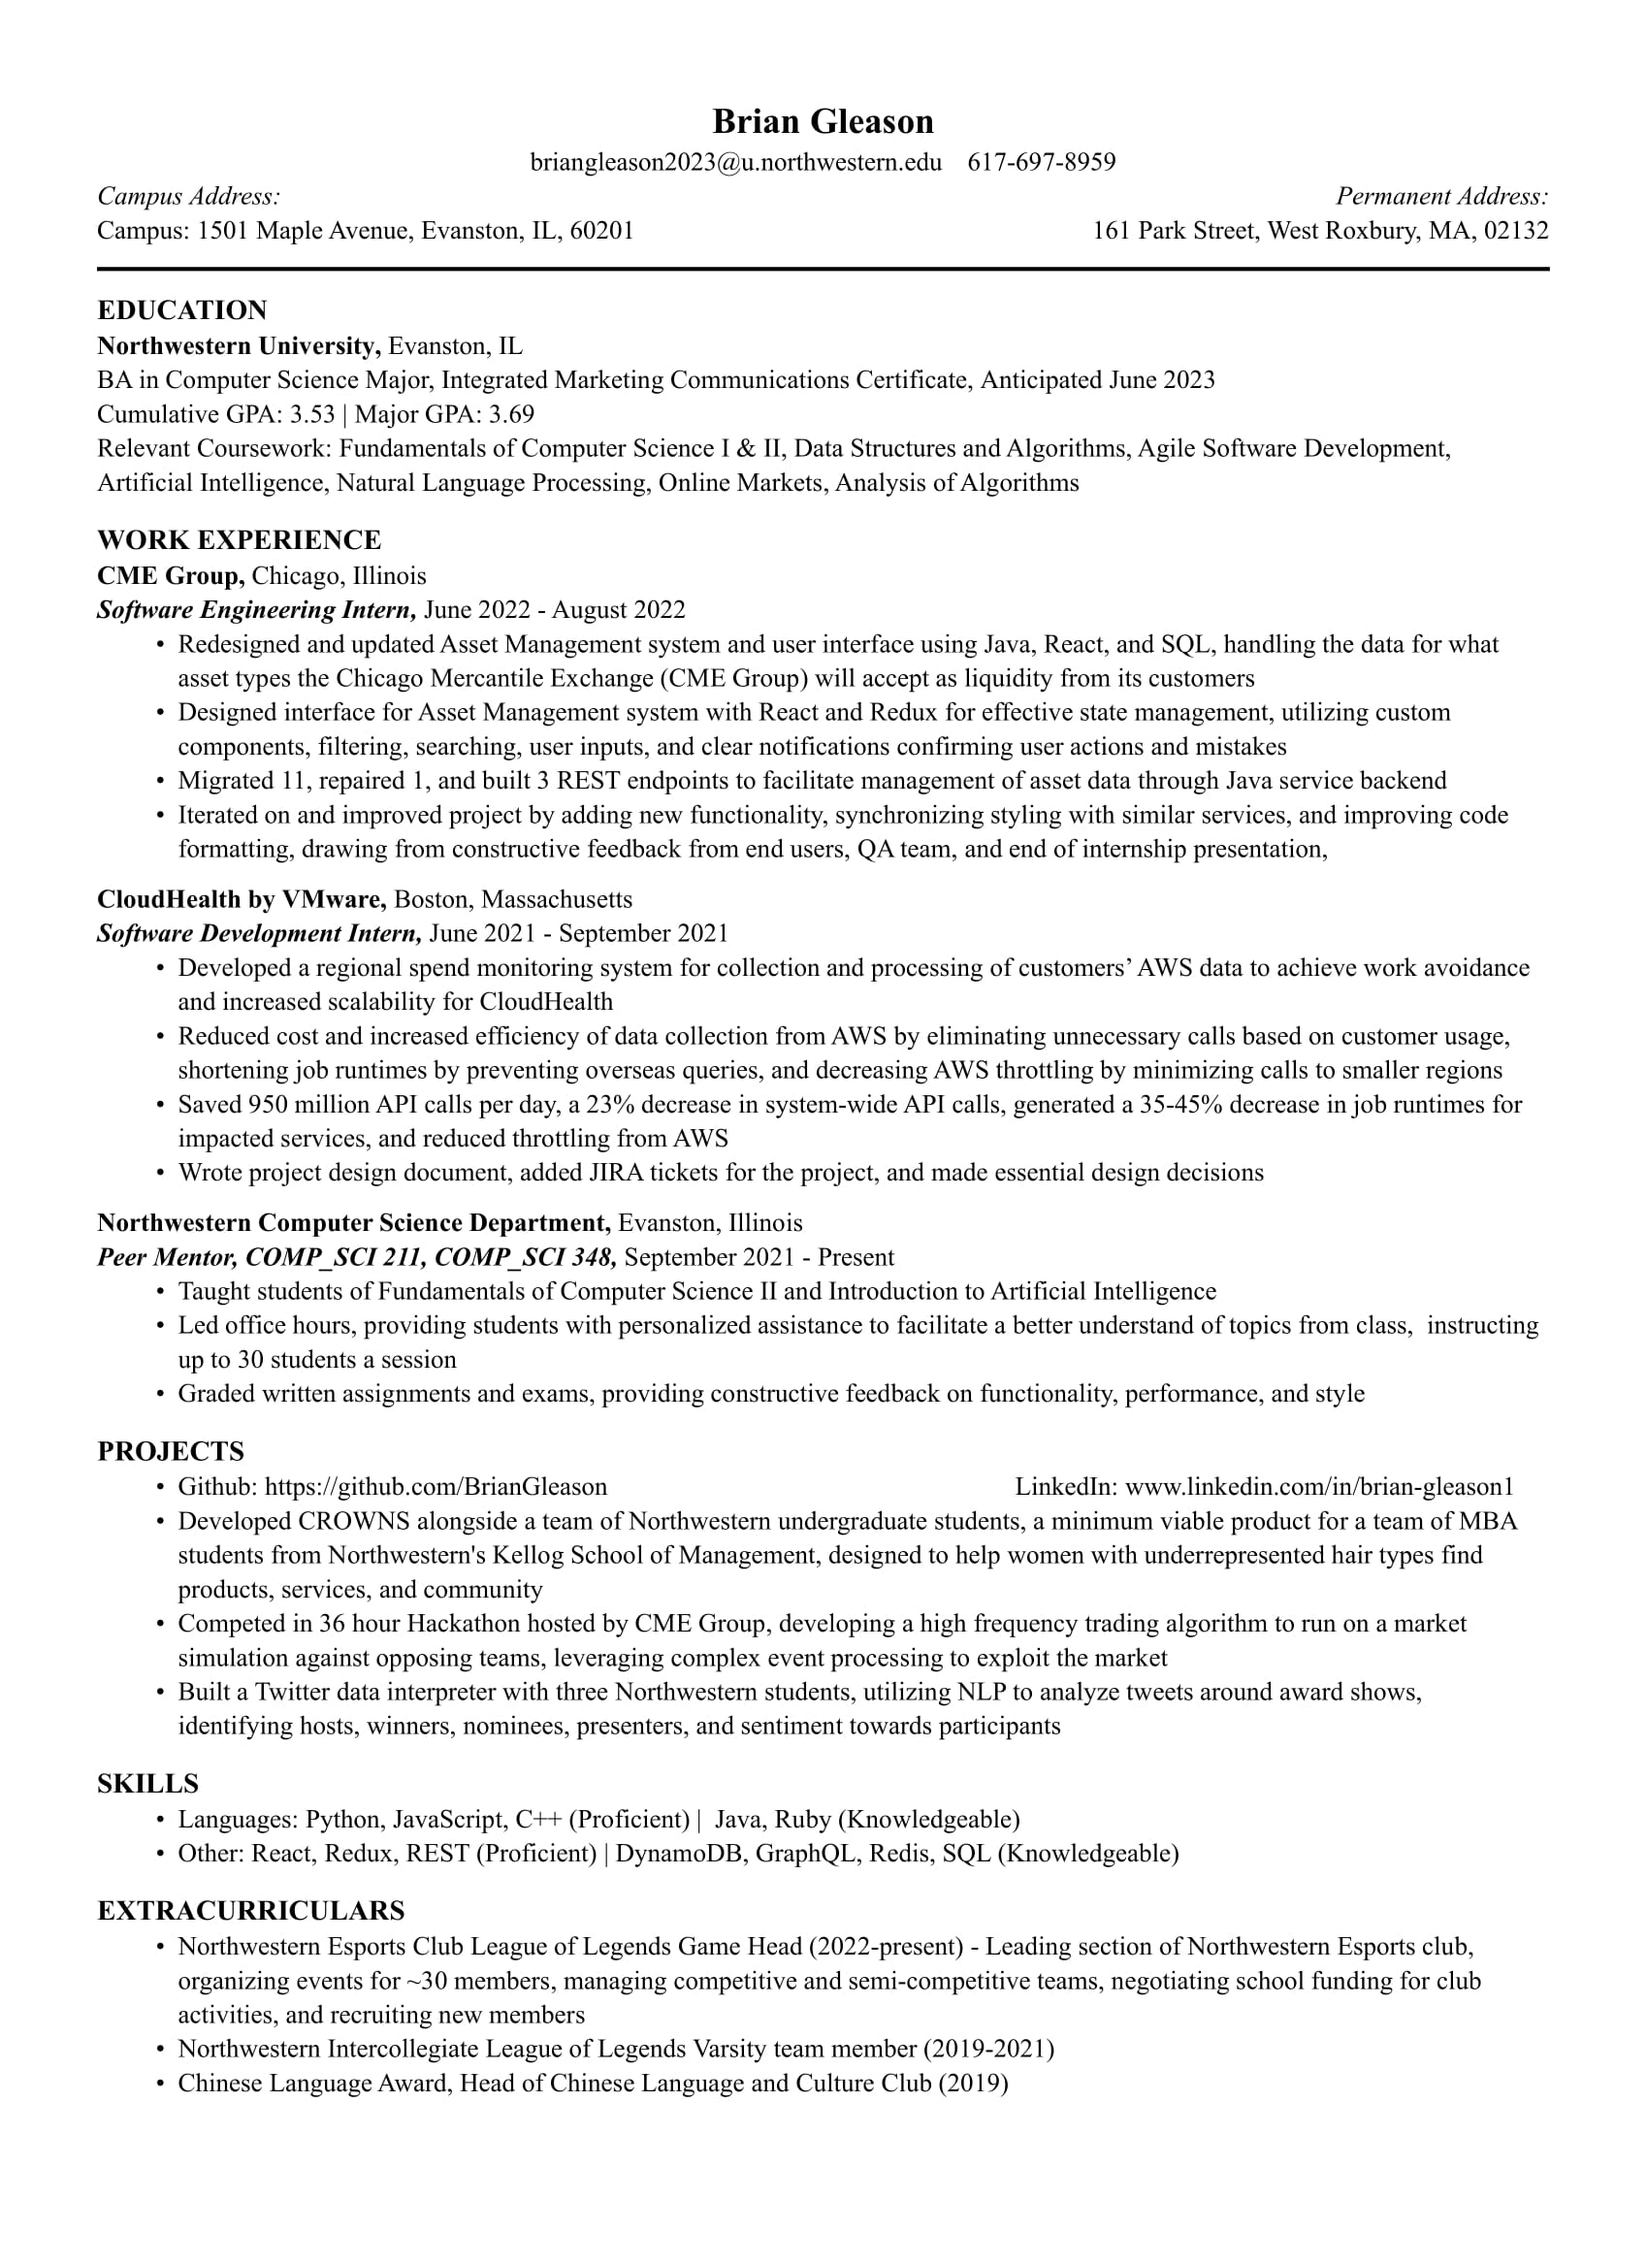
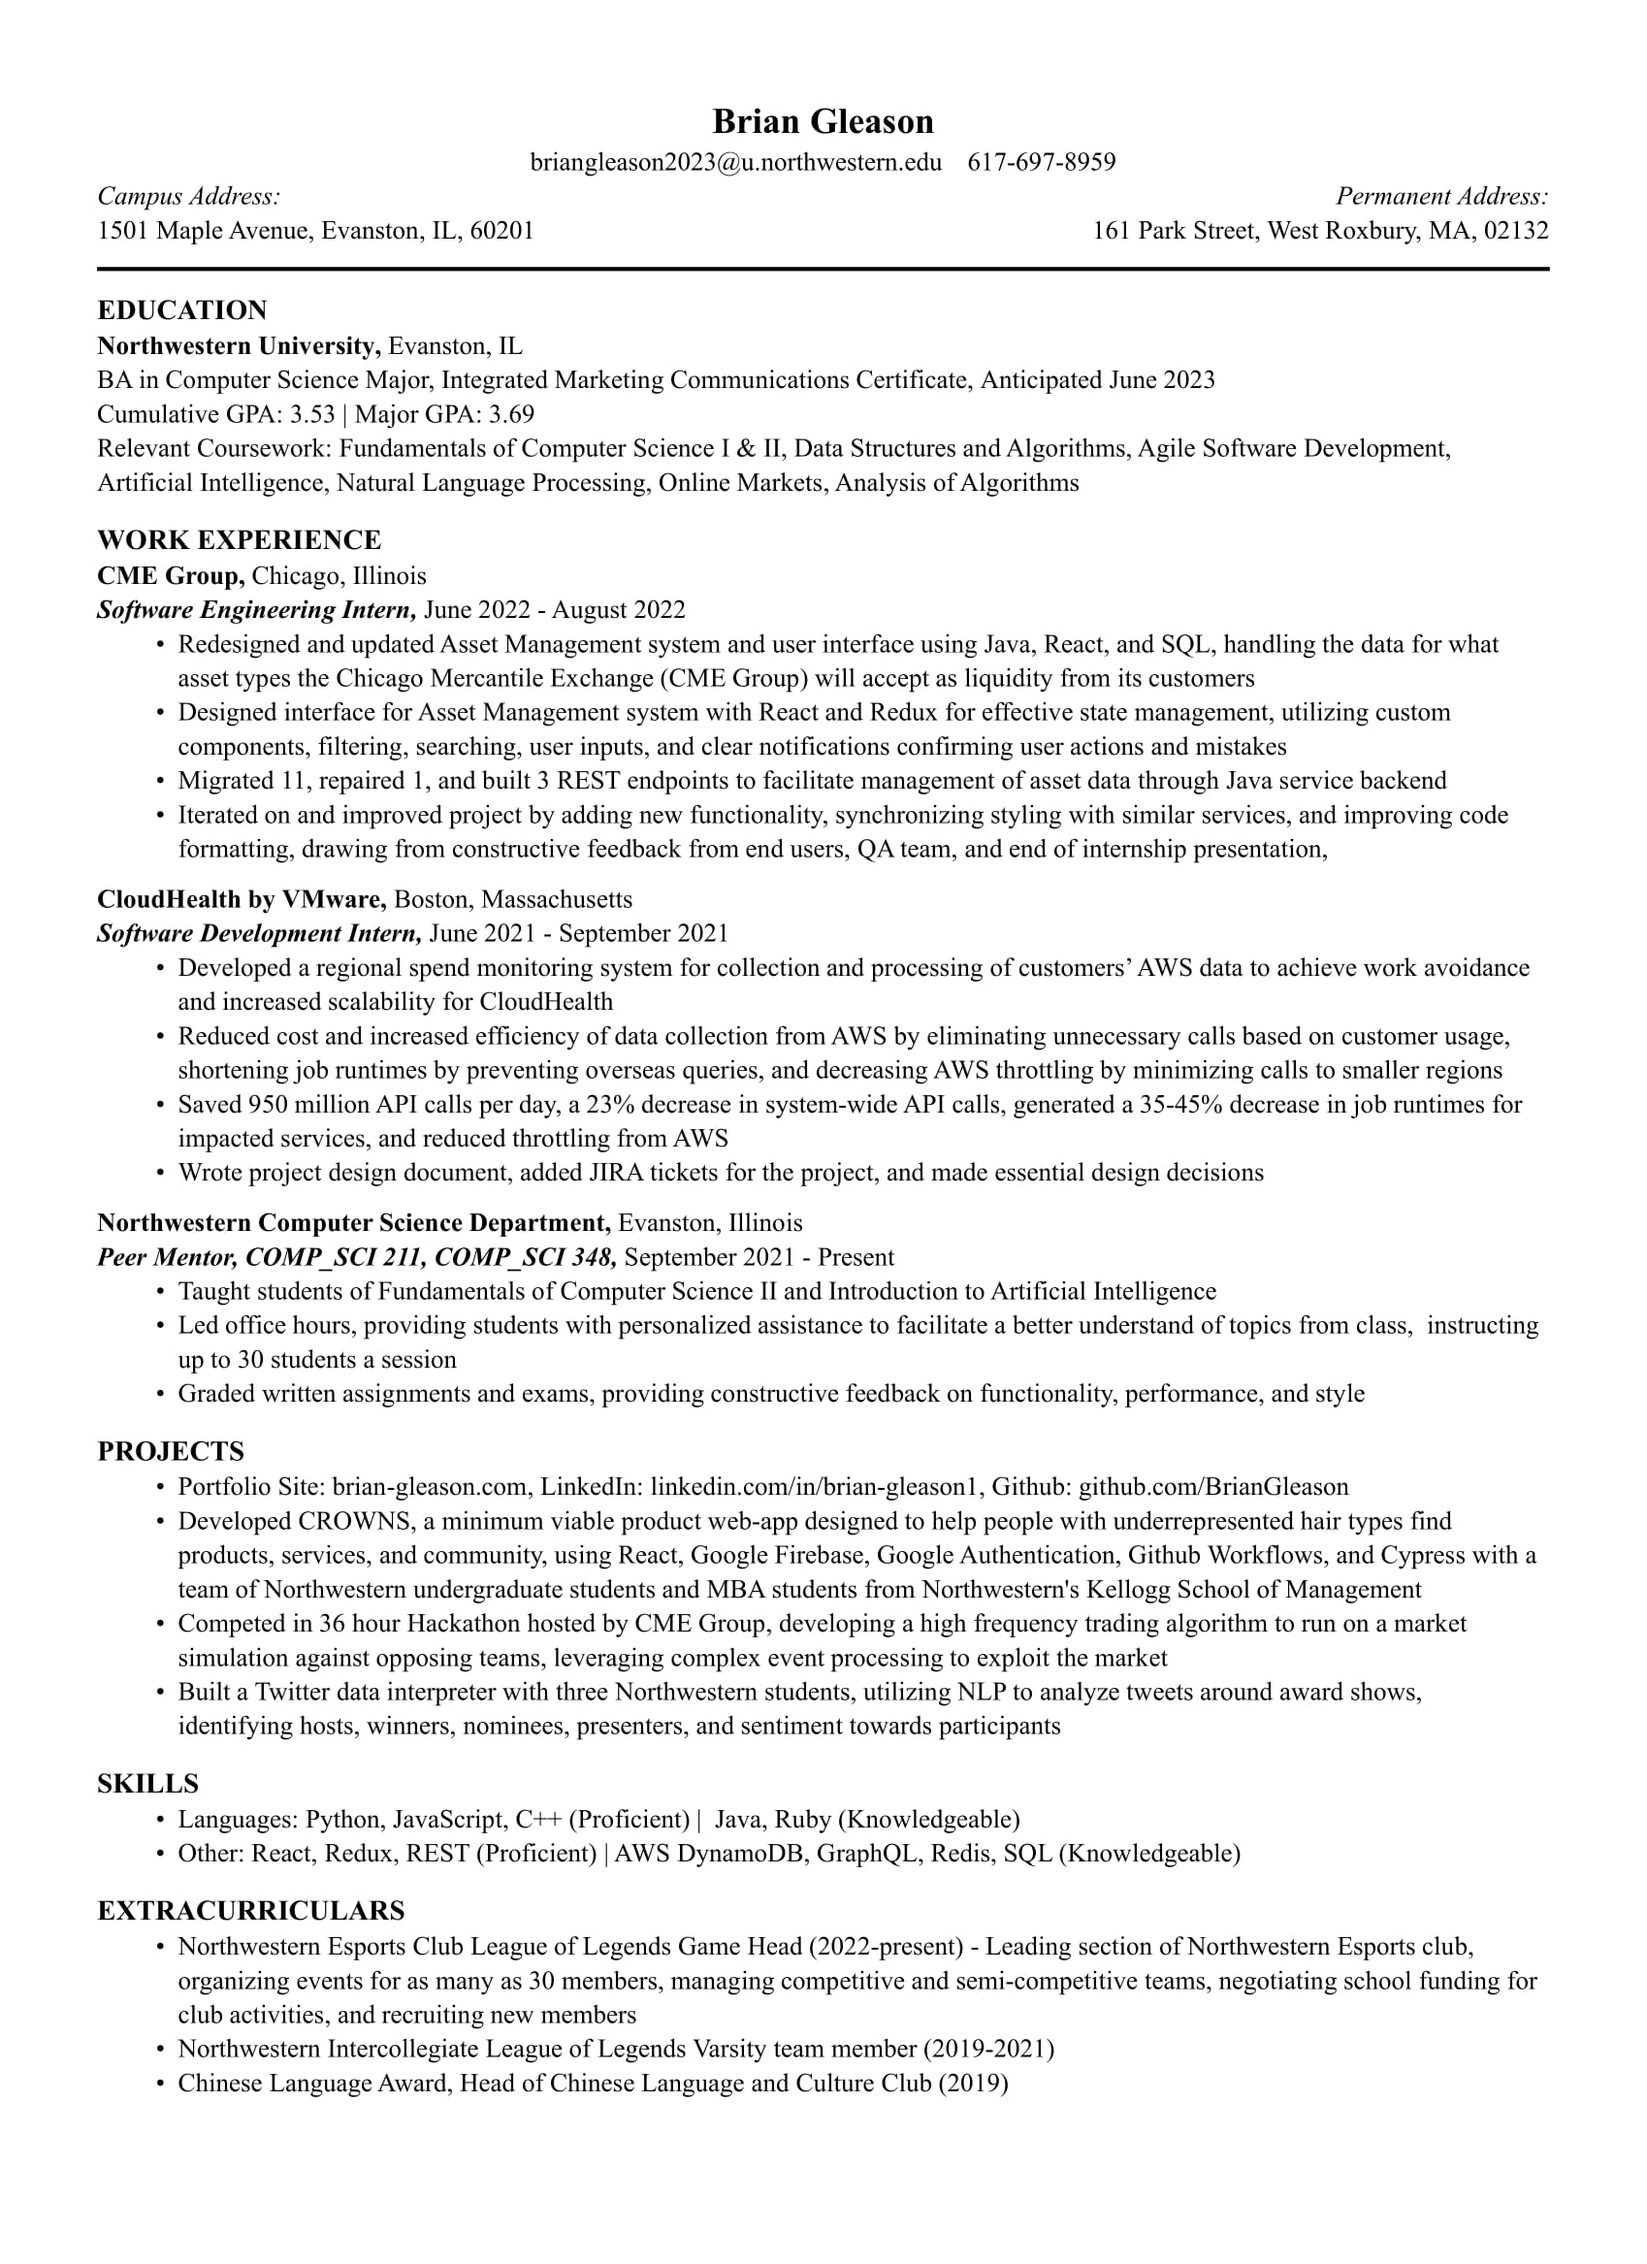
mobile app total length fix and download link resume update

diff --git a/portfolio-page/src/components/MobileApp.js b/portfolio-page/src/components/MobileApp.js
@@ -48,7 +48,7 @@ function MobileApp({height}) {
 
   return (
     <div>
-      <ParticlesBg type="cobweb" bg={{zIndex: -1,width: "100%", height: "600%", position: "absolute"}} num={150}/>
+      <ParticlesBg type="cobweb" bg={{zIndex: -1,width: "100%", height: "400%", position: "absolute"}} num={150}/>
       <MobileNavbar goToAbout={goToAbout} goToExperience={goToExperience} goToProjects={goToProjects} goToResume={goToResume}/>
 
       <div style={{display: "flex", height: `100vh`}} ref={aboutSection}>
